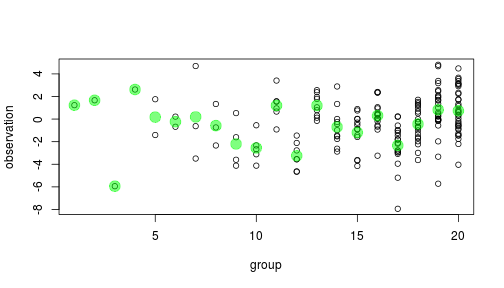
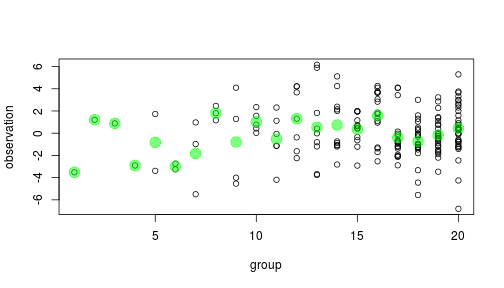
not done yet

diff --git a/ebio-brownbag/mixed-models.md b/ebio-brownbag/mixed-models.md
@@ -115,9 +115,9 @@ Analysis of Variance Table
 
 Model 1: Y ~ 1
 Model 2: Y ~ 1 + factor(id)
-  Res.Df    RSS Df Sum of Sq     F    Pr(>F)    
-1    186 909.63                                 
-2    167 560.73 19     348.9 5.469 2.841e-10 ***
+  Res.Df    RSS Df Sum of Sq      F  Pr(>F)  
+1    186 989.73                              
+2    167 835.36 19    154.37 1.6242 0.05541 .
 ---
 Signif. codes:  0 '***' 0.001 '**' 0.01 '*' 0.05 '.' 0.1 ' ' 1
 ```
@@ -291,3 +291,12 @@ Random sample of $n_j$ individuals at each of $J$ sites.
 [Alot example](https://github.com/mbjoseph/hierarchical_models/blob/master/R_examples/alot/alot_analysis.R)
 
 ====================================================================
+
+### Other resources
+
+Mixed Effects Models and Extensions in Ecology with R (2009). Zuur, Ieno, Walker, Saveliev and Smith. Springer.
+
+lme4: Mixed-effects modeling with R (2010). Bates, Douglas. Springer.
+
+Generalized linear mixed models: a practical guide for ecology and evolution (2009). Benjamin M. Bolker, et al. TREE.
+
